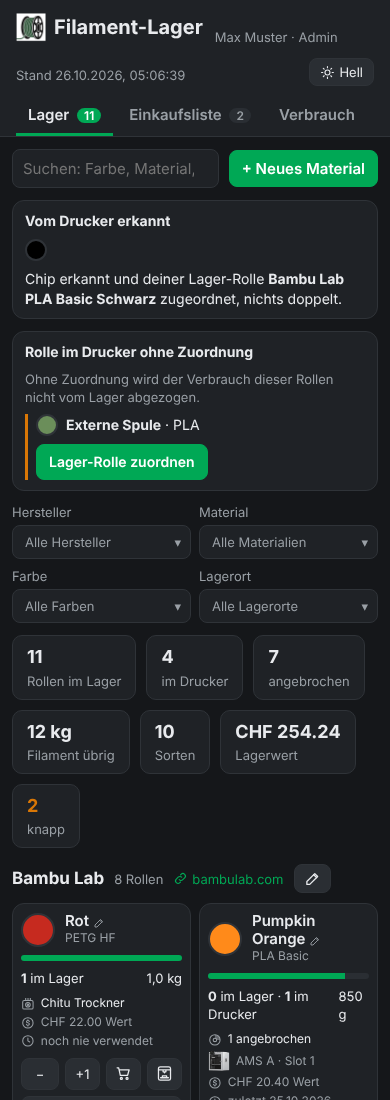
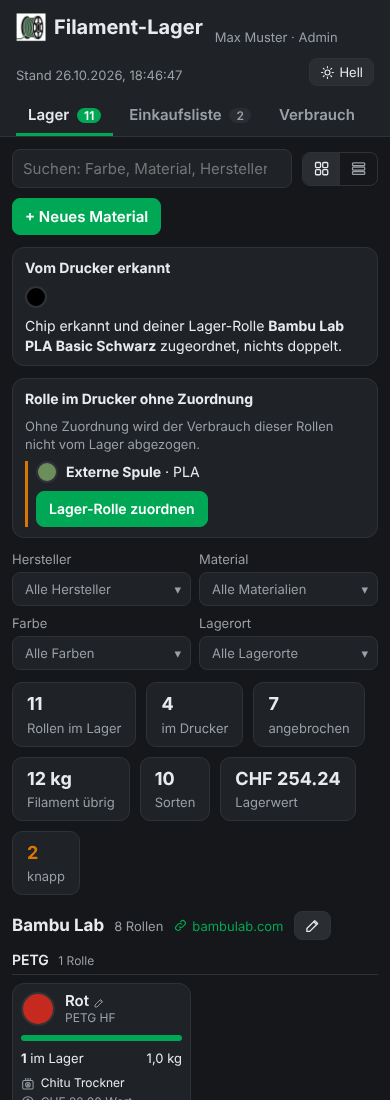
Add files via upload

diff --git a/filament_lager/www/app.js b/filament_lager/www/app.js
@@ -40,6 +40,8 @@ const ICONS = {
   box: '<path d="M3.5 8 12 3.5 20.5 8v8L12 20.5 3.5 16z"/><path d="M3.5 8 12 12.5 20.5 8M12 12.5v8"/>',
   drawer: '<rect x="3.5" y="3.5" width="17" height="17" rx="2"/><path d="M3.5 9.5h17M3.5 15h17M10 6.5h4M10 12.2h4M10 17.8h4"/>',
   cabinet: '<rect x="4.5" y="2.5" width="15" height="19" rx="2"/><path d="M12 2.5v19M9.5 11v2M14.5 11v2"/>',
+  tiles: '<rect x="3.5" y="3.5" width="7" height="7" rx="1.5"/><rect x="13.5" y="3.5" width="7" height="7" rx="1.5"/><rect x="3.5" y="13.5" width="7" height="7" rx="1.5"/><rect x="13.5" y="13.5" width="7" height="7" rx="1.5"/>',
+  rows: '<rect x="3.5" y="4" width="17" height="4" rx="1.2"/><rect x="3.5" y="10" width="17" height="4" rx="1.2"/><rect x="3.5" y="16" width="17" height="4" rx="1.2"/>',
   bag: '<path d="M6 7h12l1 13.5H5z"/><path d="M5.5 11h13M9 7V5.5a3 3 0 0 1 6 0V7"/>',
 };
 const ic = (name, cls = "") => `<svg class="ic ${cls}" viewBox="0 0 24 24" fill="none" stroke="currentColor" stroke-width="1.8" stroke-linecap="round" stroke-linejoin="round" aria-hidden="true">${ICONS[name]}</svg>`;
@@ -79,6 +81,19 @@ function setTheme(theme, save) {
   try { localStorage.setItem("theme", theme); } catch { /* egal */ }
   if (save) api("api/me", { method: "POST", body: JSON.stringify({ theme }) }).catch(() => {});
 }
+
+// Lager als Kacheln oder Liste, je Benutzer gespeichert wie das Design.
+function setView(view, save) {
+  state.view = view === "list" ? "list" : "tiles";
+  document.querySelectorAll(".viewSwitch button").forEach((b) => b.classList.toggle("active", b.dataset.view === state.view));
+  try { localStorage.setItem("view", state.view); } catch { /* egal */ }
+  if (save) api("api/me", { method: "POST", body: JSON.stringify({ view: state.view }) }).catch(() => {});
+  if (state.loaded) renderStock();
+}
+
+$("#viewTiles").innerHTML = ic("tiles");
+$("#viewList").innerHTML = ic("rows");
+document.querySelectorAll(".viewSwitch button").forEach((b) => b.addEventListener("click", () => setView(b.dataset.view, true)));
 
 $("#themeBtn").addEventListener("click", () => setTheme(document.documentElement.dataset.theme === "dark" ? "light" : "dark", true));
 setTheme(document.documentElement.dataset.theme);
@@ -243,6 +258,7 @@ async function load(quiet) {
   // Rechte bei jedem Abruf auffrischen, damit Änderungen durch den Admin ohne Neuladen greifen.
   const me = await api("api/me").catch(() => state.me);
   if (me?.theme && me.theme !== document.documentElement.dataset.theme) setTheme(me.theme);
+  if (me?.view && me.view !== state.view) setView(me.view);
   if (me && me.level !== state.me?.level) {
     state.me = me;
     applyRights();
@@ -556,14 +572,26 @@ function renderStock() {
     byBrand.get(g.brand).push(g);
   }
   const brands = [...byBrand.keys()].sort((a, b) => a.localeCompare(b, "de"));
+  const asList = state.view === "list";
+  const rollCount = (list) => { const n = list.reduce((m, g) => m + g.spools.length, 0); return `${n} ${n === 1 ? "Rolle" : "Rollen"}`; };
   $("#brands").innerHTML = brands.map((brand) => {
-    const list = byBrand.get(brand).sort((a, b) => (a.material + a.subtype + a.color_name).localeCompare(b.material + b.subtype + b.color_name, "de"));
-    const count = list.reduce((n, g) => n + g.spools.length, 0);
+    const list = byBrand.get(brand).sort((a, b) => (a.subtype + a.color_name).localeCompare(b.subtype + b.color_name, "de"));
+    // Innerhalb des Herstellers nach Material getrennt, jeweils mit Überschrift.
+    const byMat = new Map();
+    for (const g of list) {
+      const mat = g.material || "Ohne Material";
+      if (!byMat.has(mat)) byMat.set(mat, []);
+      byMat.get(mat).push(g);
+    }
+    const mats = [...byMat.keys()].sort((a, b) => a.localeCompare(b, "de"));
     return `<div class="brand">
-      <div class="brandHead">${logoHtml(brand)}<h2>${esc(brand)}</h2><span class="muted">${count} ${count === 1 ? "Rolle" : "Rollen"}</span>
+      <div class="brandHead">${logoHtml(brand)}<h2>${esc(brand)}</h2><span class="muted">${rollCount(list)}</span>
         ${websiteLink(brand)}
         <button class="icon need-edit" data-act="brand" data-brand="${esc(brand)}" title="Hersteller bearbeiten">${ic("edit")}</button></div>
-      <div class="grid">${list.map(tileHtml).join("")}</div></div>`;
+      ${mats.map((mat) => `<div class="matGroup">
+        <h3 class="matHead">${esc(mat)} <span class="muted">${rollCount(byMat.get(mat))}</span></h3>
+        ${asList ? `<div class="stockList">${byMat.get(mat).map(rowHtml).join("")}</div>` : `<div class="grid">${byMat.get(mat).map(tileHtml).join("")}</div>`}
+      </div>`).join("")}</div>`;
   }).join("");
 }
 
@@ -571,7 +599,6 @@ function tileHtml(g) {
   const pct = g.capacity ? Math.round((g.remaining / g.capacity) * 100) : 0;
   const cls = g.empty ? "empty" : g.low ? "low" : "";
   const badge = g.empty ? `<span class="badge empty">leer</span>` : g.low ? `<span class="badge low">knapp</span>` : "";
-  const cart = cartFor(g);
   return `<div class="tile ${cls}">
     <div class="tileTop" data-edit="${esc(g.key)}" title="Antippen zum Bearbeiten"><span class="swatch" style="background:${color(g)}"></span>
       <div class="grow"><div class="tileName">${esc(g.color_name || "Ohne Farbname")} <span class="editHint need-edit">${ic("edit")}</span></div>
@@ -586,12 +613,38 @@ function tileHtml(g) {
       <span>${ic("clock")} ${g.lastUsed ? "zuletzt " + fmtDate(g.lastUsed) : "noch nie verwendet"}</span>
     </div>
     <div class="tileActions">
-      <button class="minus need-edit" data-act="minus" data-key="${esc(g.key)}" title="Eine Rolle ausbuchen"${g.shelf ? "" : " disabled"}>−</button>
+      ${tileActions(g)}
+    </div></div>`;
+}
+
+function tileActions(g) {
+  const cart = cartFor(g);
+  return `<button class="minus need-edit" data-act="minus" data-key="${esc(g.key)}" title="Eine Rolle ausbuchen"${g.shelf ? "" : " disabled"}>−</button>
       <button class="need-add" data-act="plus" data-key="${esc(g.key)}" title="Eine volle Rolle dazubuchen">+1</button>
       <button class="need-add" data-act="cart" data-key="${esc(g.key)}" title="Auf die Einkaufsliste">${cart ? `${ic("cart")} <span class="badge cart">${cart.quantity_spools}</span>` : ic("cart")}</button>
       <button class="need-add" data-act="load" data-key="${esc(g.key)}" title="Rolle in den Drucker einlegen"${g.shelf ? "" : " disabled"}>${ic("printer")}</button>
-      <button data-act="rolls" data-key="${esc(g.key)}" title="Rollen einzeln ansehen, Restgewicht und Verbrauch">${ic("list")}</button>
-    </div></div>`;
+      <button data-act="rolls" data-key="${esc(g.key)}" title="Rollen einzeln ansehen, Restgewicht und Verbrauch">${ic("list")}</button>`;
+}
+
+// Listenansicht: eine Zeile pro Sorte mit denselben Angaben und Knöpfen wie die Kachel.
+function rowHtml(g) {
+  const pct = g.capacity ? Math.round((g.remaining / g.capacity) * 100) : 0;
+  const cls = g.empty ? "empty" : g.low ? "low" : "";
+  const badge = g.empty ? `<span class="badge empty">leer</span>` : g.low ? `<span class="badge low">knapp</span>` : "";
+  const where = [
+    ...g.places.map((pl) => `<span>${placeIcon(pl)} ${esc(pl)}</span>`),
+    ...g.slotList.map((x) => `<span>${printerIcon(x.printer_id)} ${esc(x.label)}</span>`),
+  ];
+  return `<div class="stockRow ${cls}">
+    <div class="rowName" data-edit="${esc(g.key)}" title="Antippen zum Bearbeiten"><span class="swatch" style="background:${color(g)}"></span>
+      <div><div class="tileName">${esc(g.color_name || "Ohne Farbname")} <span class="editHint need-edit">${ic("edit")}</span></div>
+      <div class="tileSub">${esc(g.subtype || "")}${missingFields(g).length ? ` <span class="missing">${g.subtype ? "· " : ""}fehlt: ${missingFields(g).join(", ")}</span>` : ""}</div></div></div>
+    <div class="rowStock"><span><b>${g.shelf}</b> im Lager${g.printer ? ` · <b>${g.printer}</b> im Drucker` : ""} ${badge}</span>
+      <div class="rowBar"><div class="bar"><span style="width:${pct}%"></span></div><span>${kg(g.remaining)}</span></div></div>
+    <div class="rowWhere tileMeta">${where.length ? where.join("") : g.shelf ? `<span class="muted">${ic("pin")} kein Lagerplatz</span>` : ""}
+      ${g.value ? `<span>${ic("coin")} ${money(g.value)}</span>` : ""}</div>
+    <div class="tileActions">${tileActions(g)}</div>
+  </div>`;
 }
 
 function missingFields(g) {
@@ -1634,6 +1687,9 @@ async function loadUsers() {
 (async () => {
   state.me = await api("api/me").catch(() => ({ level: 0 }));
   if (state.me.theme) setTheme(state.me.theme);
+  let view = state.me.view;
+  try { view = view || localStorage.getItem("view"); } catch { /* egal */ }
+  setView(view);
   applyRights();
   try {
     const saved = JSON.parse(localStorage.getItem("filter") || "{}");

diff --git a/filament_lager/www/style.css b/filament_lager/www/style.css
@@ -77,6 +77,38 @@ main { padding: 16px; max-width: 1300px; margin: 0 auto; }
 .brand { margin-bottom: 22px; }
 .brandHead { display: flex; align-items: center; gap: 10px; margin-bottom: 10px; }
 .brandHead h2 { font-size: 17px; margin: 0; }
+.matGroup { margin: 0 0 14px; }
+.matHead { font-size: 14px; font-weight: 600; margin: 4px 0 8px; padding-bottom: 4px; border-bottom: 1px solid var(--border); text-transform: none; }
+.matHead .muted { font-weight: 400; font-size: 12px; margin-left: 6px; }
+.viewSwitch { display: inline-flex; border: 1px solid var(--border); border-radius: 8px; overflow: hidden; }
+.viewSwitch button { border: 0; border-radius: 0; padding: 7px 10px; background: transparent; color: var(--muted); display: inline-flex; }
+.viewSwitch button.active { background: var(--chip); color: var(--text); }
+.stockList { display: flex; flex-direction: column; gap: 6px; }
+.stockRow {
+  background: var(--card); border: 1px solid var(--border); border-radius: 10px; padding: 8px 10px;
+  display: grid; grid-template-columns: minmax(180px, 1.3fr) minmax(170px, 1fr) minmax(140px, 1.2fr) 250px; gap: 12px; align-items: center;
+}
+.stockRow.low { border-color: var(--warn); }
+.stockRow.empty { border-color: var(--danger); opacity: 0.85; }
+.stockRow.low .bar > span { background: var(--warn); }
+.stockRow.empty .bar > span { background: var(--danger); }
+.stockRow .swatch { width: 30px; height: 30px; }
+.rowName { display: flex; gap: 10px; align-items: center; cursor: pointer; min-width: 0; }
+.rowStock { font-size: 13px; display: flex; flex-direction: column; gap: 4px; }
+.rowBar { display: flex; align-items: center; gap: 8px; }
+.rowBar .bar { flex: 1; }
+.rowBar > span { white-space: nowrap; }
+.rowWhere { font-size: 12px; }
+.stockRow .tileActions { justify-content: flex-end; }
+.stockRow .tileActions button { flex: none; padding: 5px 9px; }
+@media (max-width: 900px) {
+  .stockRow { grid-template-columns: 1fr 1fr; }
+  .stockRow .tileActions { grid-column: 1 / -1; }
+  .stockRow .tileActions button { flex: 1; }
+}
+@media (max-width: 520px) {
+  .stockRow { grid-template-columns: 1fr; gap: 8px; }
+}
 .logo {
   width: 36px; height: 36px; border-radius: 8px; flex: none;
   background: #fff; border: 1px solid var(--border);

diff --git a/filament_lager/www/index.html b/filament_lager/www/index.html
@@ -32,6 +32,10 @@
   <section id="tab-stock">
     <div class="toolbar">
       <input id="search" type="search" placeholder="Suchen: Farbe, Material, Hersteller …">
+      <div class="viewSwitch" role="group" aria-label="Ansicht">
+        <button id="viewTiles" data-view="tiles" title="Kacheln"></button>
+        <button id="viewList" data-view="list" title="Liste"></button>
+      </div>
       <button id="addNew" class="primary need-add">+ Neues Material</button>
     </div>
     <div id="chipBox" class="chipBox hidden"></div>

diff --git a/filament_lager/server.py b/filament_lager/server.py
@@ -260,7 +260,7 @@ class Handler(BaseHTTPRequestHandler):
             if path == "/api/me":
                 if self.command == "POST":
                     return self.save_theme()
-                return self.send(200, {"name": self.user["name"], "level": self.user["level"], "theme": self.user.get("theme")})
+                return self.send(200, {"name": self.user["name"], "level": self.user["level"], "theme": self.user.get("theme"), "view": self.user.get("view")})
             if path == "/users":
                 return self.users()
             if path.startswith("/api/inventory/"):
@@ -447,16 +447,18 @@ class Handler(BaseHTTPRequestHandler):
         self.send(200, PRINTER_IMAGES[name], "image/png", {"Cache-Control": "max-age=86400"})
 
     def save_theme(self):
-        # Hell/Dunkel je Home-Assistant-Benutzer merken, damit es auf allen Geräten gleich ist.
-        theme = (json.loads(self.read_body() or b"{}") or {}).get("theme")
-        if theme not in ("light", "dark"):
-            return self.send(400, {"detail": "Unbekanntes Design"})
+        # Hell/Dunkel und Kacheln/Liste je Home-Assistant-Benutzer merken, damit es auf allen Geräten gleich ist.
+        data = json.loads(self.read_body() or b"{}") or {}
+        allowed = {"theme": ("light", "dark"), "view": ("tiles", "list")}
+        prefs = {k: data[k] for k in allowed if k in data}
+        if not prefs or any(v not in allowed[k] for k, v in prefs.items()):
+            return self.send(400, {"detail": "Unbekannte Einstellung"})
         if self.user.get("id"):
             with USERS_LOCK:
                 users = load_users()
-                users.setdefault(self.user["id"], {})["theme"] = theme
+                users.setdefault(self.user["id"], {}).update(prefs)
                 save_users(users)
-        return self.send(200, {"theme": theme})
+        return self.send(200, prefs)
 
     def users(self):
         # Nur anzeigen: Rechte werden in der App-Konfiguration von Home Assistant vergeben.

diff --git a/README.md b/README.md
@@ -17,11 +17,17 @@
 
 ![Lagerübersicht](images/lager.png)
 
+<details><summary>Listenansicht</summary>
+
+![Listenansicht](images/liste.png)
+
+</details>
+
 ## Was die App kann
 
 Bambuddy zählt den Filamentverbrauch deiner Bambu-Lab-Drucker automatisch mit, die Lagerverwaltung dort ist aber eher technisch. Filament-Lager legt eine einfache Oberfläche darüber und speichert alles direkt in Bambuddy.
 
-- **Übersicht auf einen Blick**: jede Sorte als Farbkachel, gruppiert nach Hersteller (mit eigenem Logo und Link zur Webseite). Du siehst Rollen im Lager und im Drucker, angebrochene Rollen, Restgewicht, Lagerplatz und wann das Material zuletzt verwendet wurde. Was knapp wird, ist orange markiert, was leer ist, rot.
+- **Übersicht auf einen Blick**: jede Sorte als Farbkachel oder als Zeile in der Listenansicht (Umschalter oben, wird pro Benutzer gespeichert), gruppiert nach Hersteller (mit eigenem Logo und Link zur Webseite) und darunter nach Material. Du siehst Rollen im Lager und im Drucker, angebrochene Rollen, Restgewicht, Lagerplatz und wann das Material zuletzt verwendet wurde. Was knapp wird, ist orange markiert, was leer ist, rot.
 - **Schnell erfassen**: „+1 Rolle“ bei jeder Sorte oder „Neues Material“ mit Hersteller, Material, Typ, Farbe (auch als Hex-Code, transparent und durchscheinend mit Deckkraft), Gewicht, Anzahl und Lagerplatz.
 - **Keine Doppelten**: Schreibweisen werden vereinheitlicht („bambu lab“ wird „Bambu Lab“), und gibt es eine Sorte schon, schlägt die App vor, die Rollen dort dazuzubuchen.
 - **Einkaufsliste**: Warenkorb-Knopf an jeder Sorte, Status „zu kaufen“, „bestellt“, „eingetroffen“. Beim Eintreffen werden die Rollen direkt ins Lager gebucht. Neben jedem Eintrag steht der aktuelle Lagerbestand.

diff --git a/filament_lager/CHANGELOG.md b/filament_lager/CHANGELOG.md
@@ -1,5 +1,10 @@
 # Änderungen
 
+## 1.3.12
+
+- Im Lager ist jeder Hersteller nach Material unterteilt, jeweils mit Überschrift und Anzahl Rollen
+- Umschalter Kacheln / Liste neben „Neues Material“; die Wahl wird pro Benutzer gespeichert und gilt auf allen Geräten
+
 ## 1.3.11
 
 - Hersteller löschen (Papierkorb im Reiter Hersteller), nur möglich, wenn dem Hersteller keine Rolle mehr zugewiesen ist; Webseite und Logo werden mit entfernt
